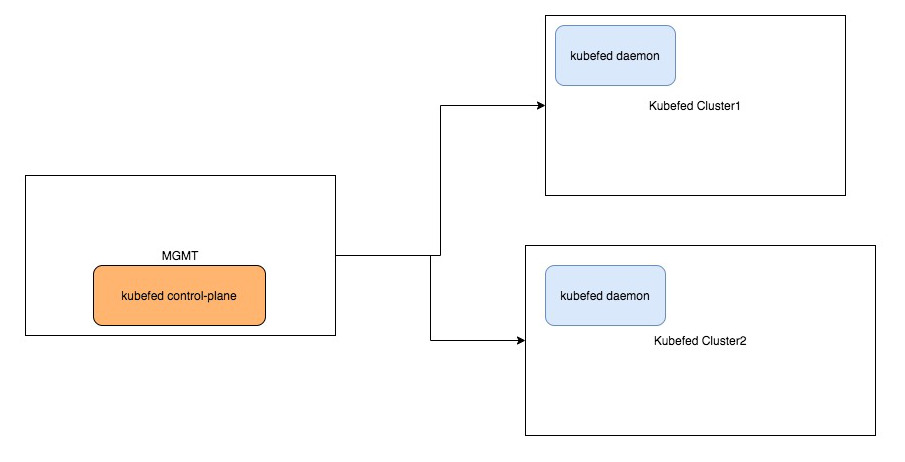
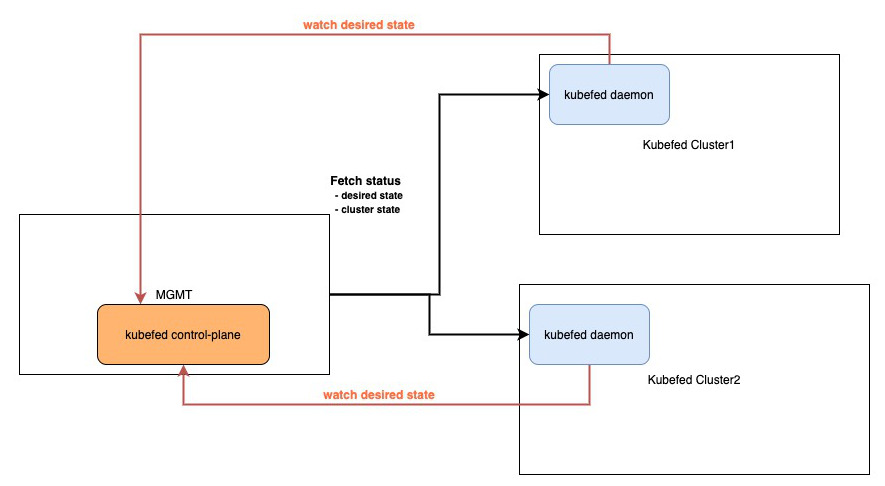
docs: choose desirable proposal

diff --git a/docs/keps/20200619-kubefed-pull-reconciliation.md b/docs/keps/20200619-kubefed-pull-reconciliation.md
@@ -29,12 +29,11 @@ status: provisional
   - [Goals](#goals)
   - [Non-Goals](#non-goals)
 - [Proposal](#proposal)
-  - [Risks and Mitigations](#risks-and-mitigations)
-- [Graduation Criteria](#graduation-criteria)
-- [Implementation History](#implementation-history)
-- [Drawbacks](#drawbacks)
+  - [Kubefed Daemon](#kubefed-daemon)
+  - [Kubefed Control-Plane](#kubefed-control-plane)
+  - [Controller Resource Propagation Status](#controller-resource-propagation-status)
+  - [Kubefed Security Concerns](#kubefed-security-concerns)
 - [Alternatives](#alternatives)
-- [Infrastructure Needed](#infrastructure-needed)
 <!-- /toc -->
 
 ## Summary
@@ -92,7 +91,7 @@ the communication between the control-plane and the daemons, and viceversa.
 
 In the following we explain how this bi-directional communication occurs:
 
-* `control-plane --> kubefed daemon`: the control-plane reads the status of the cluster
+* `control-plane --> kubefed daemon`: the control-plane polls the status of the cluster
 and federated resources in the kubefed clusters.
 This operation is important to determine the status of the propagation of resources.
 
@@ -105,6 +104,13 @@ defined in the control-plane.
 
 This new component, named `kubefed daemon`, exposes certain endpoints to report
 the cluster health and the federated resources.
+The main intentions why `kubefed daemons` expose certain functionalities as endpoints
+are:
+
+* Follow a similar approach to the `virtual-kubelet` where the main functionalities are exposed as endpoints (`runningpods`, `containerlogs`, etc...).
+  In our scenario, the `kubefed daemon` exposes them for the federated resources.
+* The list of available functionalities to perform on kubefed clusters could be easily extended in the future when using endpoints.
+  For instance, new endpoints could be exposed to get the logs of federated resources, e.g. `kubectl logs federatedpod mypod --placement=cluster=a`.
 
 Initially the kubefed daemon exposes the following endpoints:
 
@@ -159,6 +165,8 @@ type KubefedAgentHandlerConfig struct {
 }
 ```
 
+
+
 #### Collect the Resource Status
 
 The kubefed daemons have to periodically collect the status of the federated resources in each
@@ -171,9 +179,8 @@ The list of `FederatedTypeConfig` available resources is defined in the control 
 There is no need to create an `Informer` per kind of resource type in the Kubernetes cluster.
 The `Informer` populates the cache with the status of the federated resources.
 
-In order to know the `TargetType` of the federated resources, the control-plane exposes an endpoint to know which type of resources are federated:
-
-* `/federatedtypeconfigs`: This endpoint returns the list of the `FederatedTypeConfig` resources at any time.
+In order to know the `TargetType` of the federated resources, the control-plane allows daemons
+to `get` the list of federated types.
 
 
 #### Desired State Reconciliation
@@ -209,69 +216,13 @@ works as a centralized system where the customer defines what and where a federa
 is created.
 Keeping the desired state synced with the state of the clusters would define the success of this new architecture.
 
-A common operation that would be consumed by the daemons consists on an endpoint to list the available federated types:
+A common operation that would be consumed by the daemons consists on getting the list of the available federated types.
+The daemons would be able to `get` the `FederatedTypeConfig` resources, so they
+are aware of the types of resources federated at any time.
 
-* `/federatedtypeconfigs`: This endpoint returns the list of the `FederatedTypeConfig` resources.
-To avoid creating `Informers` in all the kubefed clusters against all the resources, the ideal approach
-is to be aware of the types of resources federated at any time.
+Next we present the proposed model to keep the desired state synced across all the cluters.
 
-Next we present four alternatives or models to keep the desired state synced
-across all the cluters.
-
-#### Option 1 - Desired State Reconciliation - Subscriber/Publisher
-
-This approach follows a subscriber/publisher model where the desired state
-is published to the different kubefed clusters in the shape of events (distributed messaging).
-These events represent the create/update/delete actions triggered against the federated
-resources in the control-plane cluster.
-In other words, any action triggered in a federated resource action forwards the respective event
-to the kubefed member clusters defined in the `placement` property of the resource.
-
-A creation of a federated resource publishes a `CreateEvent` similar to the `request.Reconcile` objects
-in the controller-runtime (including the object itself).
-This `CreateEvent` contains the object and would be published to the queue of the respective kubefed clusters.
-There is a queue per kubefed cluster where to publish the events.
-Once a message is published into the queue, the kubefed daemon receives it and
-process the event which creates a new resource in the cluster.
-Then the daemon is responsible of applying this new event to ensure the desired state.
-
-If we compare this mechanism with how a controller works where an internal queue is created,
-it is similar but in this case the controller does not ensures the desired state in the remote
-clusters.
-It forwards the events to the target kubefed clusters for them to reach the defined state.
-If the event failed or could not be forwarded, then the event is re-queued.
-This model presents a level triggered reconciliation which differs from Kubernetes
-native edge triggered reconciliation.
-To avoid all the out-of-sync problems of level triggered reconciliation, a full periodic
-reconciliation should be required to pull the desired state from the control-plane cluster
-and enforce that desired state.
-
-With this model the reconciliation of the desired state is a job of the daemons.
-This new mechanism decentralized the reconciliation of the desired state and reliefs
-the control plane of all this workload.
-
-Likewise the kubefed daemons are the responsible to listen on the channels to compute
-coming events, and perform a full periodic reconciliation.
-
-Note that the mechanism of creation of a publisher and subscribe to a specific queue takes place
-when a kubefed cluster joins the federation.
-
-##### Analysis
-
-Obviously this new approach requires of a third party software (e.g. nats-server, nsq).
-Likewise daemons need to perform a full periodic reconciliation and request to the
-control plane the desired state. So the daemons need to be able to talk to the control plane
-to do this full reconciliation.
-
-In this approach the networking and computation load is minimal.
-The data exchanged is equal to the amount of events triggered against the federated resources.
-
-This pub/sub eliminates the need of the daemon to constantly ask for the desired state,
-the control-plane publishes the events, and the daemon applies it.
-
-The security of this communication would rely on the features of the used third party.
-
-#### Option 2 - Desired State Reconciliation - Watch Federated types
+#### Desired State Reconciliation - Watch Federated types
 
 Every kubefed daemon has to create a remote informer to watch any changes in the federated
 types which all belong to the same group `types.kubefed.io`.
@@ -282,7 +233,7 @@ desired state of the kubefed cluster.
 
 The main challenge of this approach is filtering what federated resources a kubefed
 daemon should be able to watch.
-In other words, a watch should be only aware of changes in the resources assigned to this
+In other words, a watch should be only aware of changes in the resources assigned to its
 cluster.
 This could be done adding labels to the federated resources in addition to RBAC
 settings in the control plane cluster to only allow `get` to the resources that
@@ -295,76 +246,27 @@ to be able to reach the desired state.
 
 The main challenge is an ideal filtering of the resources that each cluster should view.
 
+#### Other Main Reconciliation Loops
 
-#### Option 3 - Desired State Reconciliation - Crossed endpoints
+As part of this new reconciliation pull mode, there are certain controllers that
+could become deprecated or removed.
 
-In this approach, the kubefed daemon constantly fetches the list of federated resources
-that represents the desired state.
+For the `ServiceDNSRecord` controller, Kubefed `v2` should omit this functionality and rely on
+other solutions such as service meshes.
+The purpose of Kubefed should be to ultimately federate resources across clusters.
+Another option is to expose an additional endpoint in the daemons to be aware of the
+`serviceDNS`, therefore the control-plane does not need to create remote `Informer` against
+all the kubefed clusters.
 
-To do so, the control-plane should exposes a specific endpoint per cluster:
+The future of `ServiceDNSRecord` controller is something to decide with the community.
+It goes one step beyond by dealing with networking considerations when talking to apps deployed across clusters.
 
-* `/federatedresources/{cluster}`: this endpoint returns the list of all the federated
-resources allocated to that cluster.
+On the other hand, the controllers in charge of the scheduler preferences remains as part of the control-plane.
+The enforcement of these preferences rely on the control-plane and daemons, so nothing would change there.
 
-Obviously a cache should be used to reduce the response times and certain reconcile
-loops should watch on changes in the federated types to keep these lists up-to-date
-for each cluster.
+The rest of kubefed cluster related operations would be managed by controllers in the control-plane.
 
-Once the daemon queries that endpoint with the desired state, it compares
-it with the current (local) state, and applies the desired changes such as resource deletion, updates
-or creations.
-
-As a possible modification to this alternative, a more efficient protocol can be defined
-to reduce the amount of data exchange:
-
-* The `control-plane` exposes two endpoints: one to define a `versionID` per cluster to report changes in the
-state.
-A `versionID` defines a current state. For instance, if new federated resources are created
-or updated, the `versionID` should change.
-
-* The `daemon` periodically asks if there is anything new for him to the control-plane.
-The daemon has to store a `versionID` that represents the current (local) state for comparison with
-the desired state defined for the cluster in the control-plane.
-If the `versionID` differs then the daemon requests the desired state from the control-plane
-`/federatedresources/{cluster}`.
-Finally, the kubefed daemon needs to reconcile the desired state with the local state.
-
-##### Analysis
-
-This model is a bit more expensive in terms of computation and networking data exchanged.
-The daemon has to collect all the federated resources and compute the list
-to determine if a resource changed or not.
-
-The computation of ensuring the desired state in comparison with the expected list of
-resources brings more workload than necessary with other approaches to the daemons.
-
-In addition, this solution requires to maintain all these API endpoints which is
-tedious and hard to maintain.
-
-#### Option 4 -- Centralized Resource Management -- GitOps
-
-In order to avoid the `kubefed daemon --> control-plane` communication, I thought
-about using a centralized component where the federated resources could be created
-to be consumed by all the kubefed clusters.
-
-This centralized component represents a hybrid approach of using the federation api to define configuration, and then generating a canonical form into a git repository for gitOps.
-This alternative solution might represent a good solution for some use cases.
-
-##### Analysis
-
-As an administrator, the admins prefer to have the RBAC rules in the cluster,
-and not outsourced to a git repository with rules about who gets to push what where.
-
-With this alternative, the communication flow goes against the gitOps repository or
-centralized datastore where the desired state is stored.
-
-Analogously to the `Option 1`, this alternative adds a new third party in the game
-which might increase the complexity of the whole architecture.
-
-In terms of security, the system should rely on what each cluster is allowed to view,
-likewise it is hard to understand how `overwrites` would work in a per cluster level.
-
-### Controller Resource Propagation Status - creation/update/creation
+### Controller Resource Propagation Status
 
 The creation of a federated resource triggers an asynchronous process that updates
 the state of the operation once applied to all the Kubefed clusters.
@@ -386,44 +288,24 @@ A similar process applies to deletion and update operations on the federated res
 However, in a deletion of a federated resource, this operation is considered completed when the resource
 does not exist on any of the allocated clusters.
 
-### Controller Resource Status
-
-The control-plane periodically queries the kubefed cluster daemons to be aware of the
-status of the federated resources on each cluster.
-Note that this status differs from the propagation status and is oriented to report
-issues on the federated resources.
-
-To reduce the load of this periodic reconcile loop that updates the status of the federated
-resources, the control-plane requests from the daemons the `notready` resources.
-
-### Other Main Reconciliation Loops
-
-For the `ServiceDNSRecord` controller, Kubefed `v2` should omit this functionality and rely on
-other solutions such as service meshes.
-The purpose of Kubefed should be to ultimately federate resources across clusters.
-Another option is to expose an additional endpoint in the daemons to be aware of the
-`serviceDNS`, therefore the control-plane does not need to create remote `Informer` against
-all the kubefed clusters.
-
-The future of `ServiceDNSRecord` controller is something to decide with the community.
-It goes one step beyond by dealing with networking considerations when talking to apps deployed across clusters.
-
-On the other hand, the controllers in charge of the scheduler preferences remains as part of the control-plane.
-The enforcement of these preferences rely on the control-plane and daemons, so nothing would change there.
-
-The rest of kubefed cluster related operations would be managed by controllers in the control-plane.
+This approach assumes the control-plane polls the status of the `notready` federated
+resources from the kubefed clusters using an endpoint exposed by the daemons.
+However there is another alternative that was not presented yet in this document.
+The daemons could alternatively have `write` permissions to save the status of their federated resources to
+keep the state up-to-date for each resource.
 
 ### Kubefed Security Concerns
 
 With this new approach, the kubefed daemon only exposes read permissions to ensure
 the reconciliation of the current status of the federated resources.
+Likewise the daemons require a read access to the federated types in the control-plane cluster to list the available
+federated types and watch the resources that have to be federated on each cluster.
 This differs from the current architecture where the control-plane has write access
 to the kubefed clusters.
 
-A difference is the `control-plane` and `kubefed daemons` which need to communicate between themselves.
-We need to define which kind of the communication is necessary based on the chosen option among
-the defined alternatives.
-However, if a bi-directional communication is required, I believe a good approach would be to follow the [SPIFEE Trust domain federation](https://docs.google.com/document/d/1OC9nI2W04oghhbEDJpKdIUIw-G23YzWeHZxwGLIkB8k/edit) approach.
+Consequently the `control-plane` and `kubefed daemons` need to communicate between themselves.
+A bi-directional communication is required, consequently a secure trust communication should
+be established between the control-plane and daemons. In the future, a good solution would be to follow the [SPIFEE Trust domain federation](https://docs.google.com/document/d/1OC9nI2W04oghhbEDJpKdIUIw-G23YzWeHZxwGLIkB8k/edit) approach.
 To federate identity and trust, you must exchange the trust bundles between the `control-plane`
 and `kubefed daemon` of each cluster.
 
@@ -454,3 +336,27 @@ some NAT gateways, and consequently the control-plane cannot reach the kubefed c
 
 With this new approach, the kubefed daemon can register with the control plane and sets up
 a bi-directional tunnel.
+
+## Alternatives
+
+### Centralized Resource Management -- GitOps
+
+In order to avoid the `kubefed daemon --> control-plane` communication, I thought
+about using a centralized component where the federated resources could be created
+to be consumed by all the kubefed clusters.
+
+This centralized component represents a hybrid approach of using the federation api to define configuration, and then generating a canonical form into a git repository for gitOps.
+This alternative solution might represent a good solution for some use cases.
+
+#### Analysis
+
+As an administrator, the admins prefer to have the RBAC rules in the cluster,
+and not outsourced to a git repository with rules about who gets to push what where.
+
+With this alternative, the communication flow goes against the gitOps repository or
+centralized datastore where the desired state is stored.
+
+This alternative adds a new third party in the game which might increase the complexity of the whole architecture.
+
+In terms of security, the system should rely on what each cluster is allowed to view,
+likewise it is hard to understand how `overwrites` would work in a per cluster level.
